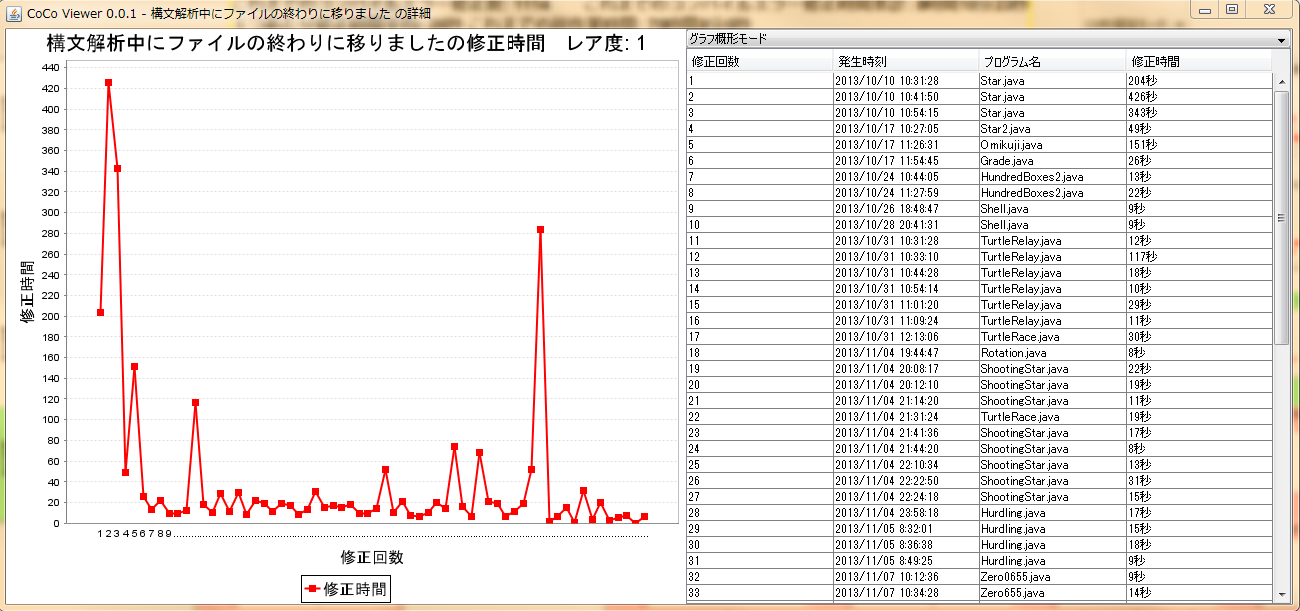
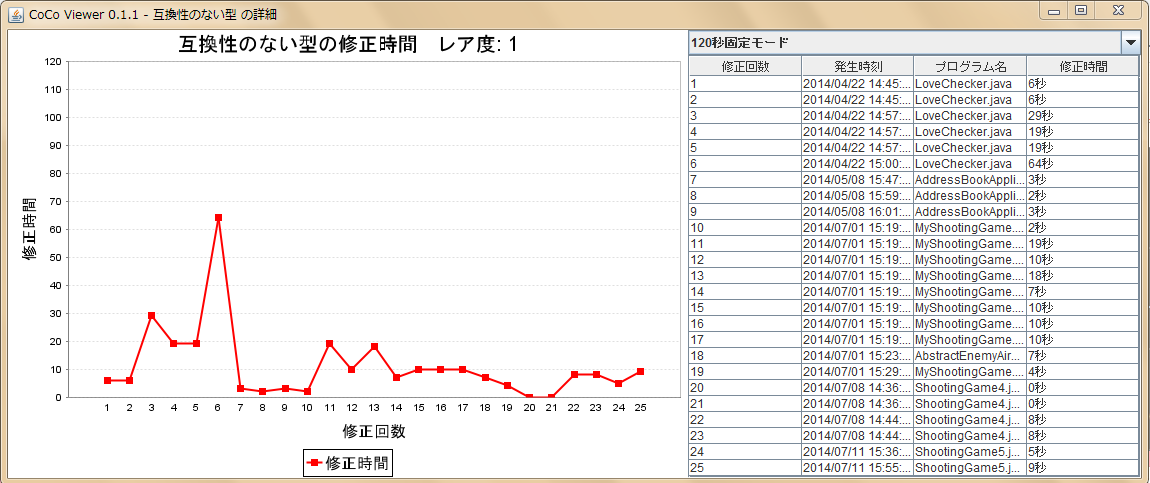
CocoViewerのUIキャプチャを自分のデータに変更．

Changed region(s): [[0.0, 0.0, 1.0, 1.0], [0.1826, 0.4348, 0.213, 0.559]]

diff --git a/AboutCocoViewer/index.html b/AboutCocoViewer/index.html
@@ -68,18 +68,21 @@
 	<p> 並んでいる修正グラフをクリックすると，修正詳細ウィンドウが表示されます．修正詳細ウィンドウでは，拡大された修正グラフとコンパイルエラー修正に関する詳細なテーブル（修正詳細テーブル）を確認することができます．修正詳細テーブルでは発生回数，発生した時刻，コンパイルエラーを修正したプログラム名，修正までかかった時間が表示されます．</p>
 	<img src="./img/detail.png" width = "75%" />
 
-	<p> 修正詳細テーブルの行をクリックすると，ソースコード比較ウィンドウが表示されます．ソースコード比較ウィンドウではコンパイルエラー発生時の状況を再現することができます．デフォルトではプロジェクト単位のソースコードが開きます</p>
+	<p> 修正詳細テーブルの行をクリックすると，ソースコード比較ウィンドウが表示されます．ソースコード比較ウィンドウではコンパイルエラー発生時の状況を再現することができます．Eclipseではプロジェクト単位，論プロエディタではファイル単位でオープンされます．</p>
+	<p> 次の例はEclipseでの例です．</p>
+	<img src="./img/comparesource.png" width = "75%" />
+
 	<p> 左上側が修正前のソースコード，真ん中左が修正前のソースコードをコンパイルした結果になります．</p>
 	<p> 右上側が修正後のソースコード，真ん中右が修正後のソースコードをコンパイルした結果になります．</p>
 	<p> コンパイルした結果では，実際に発生していたコンパイルエラー，発生行数，どのプログラムで発生していたのか，という情報を得ることが出来ます．</p>
 	<p> 下部のタイムラインを操作することで，エディタの操作を再現することができます．自分のコンパイルエラー修正過程を振り返る際に活用してください．</p>
 	<p> タイムラインはShiftボタンを押したまま，左クリックした状態でドラッグすると選択した範囲が拡大されます．青色のバーは修正前のソースコードに対応しており，左クリックしたままドラッグすることで動かすことが可能です．赤色のバーは修正後のソースコードに対応しており，右クリックしたままドラッグすることで動かすことが可能です．</p>
 	<p> 青色，赤色のバーを移動させることにより，エディタの操作履歴が再現され，修正前．修正後のソースコードが変化します．</p>
-	<img src="./img/comparesource.png" width = "75%" />
+	
 
 	<p> 上記の画像でBulletの横にあるDetailボタンを押すと，Bulletクラスのソースコードのみが表示されます</p>
 	<p> プログラムの動きを追うために活用してください．</p>
-	<img src="./img/comparesource2.png" width = "75%" />
+	<img src="./img/comparesource2.png" width = "90%" />
 
 	<h2><a name="analyze">分析方法</a></h2>
 	<p> CocoViewerでは修正グラフを分析することで，自分のコンパイルエラー修正の学習状況を認識することができます．</p>
